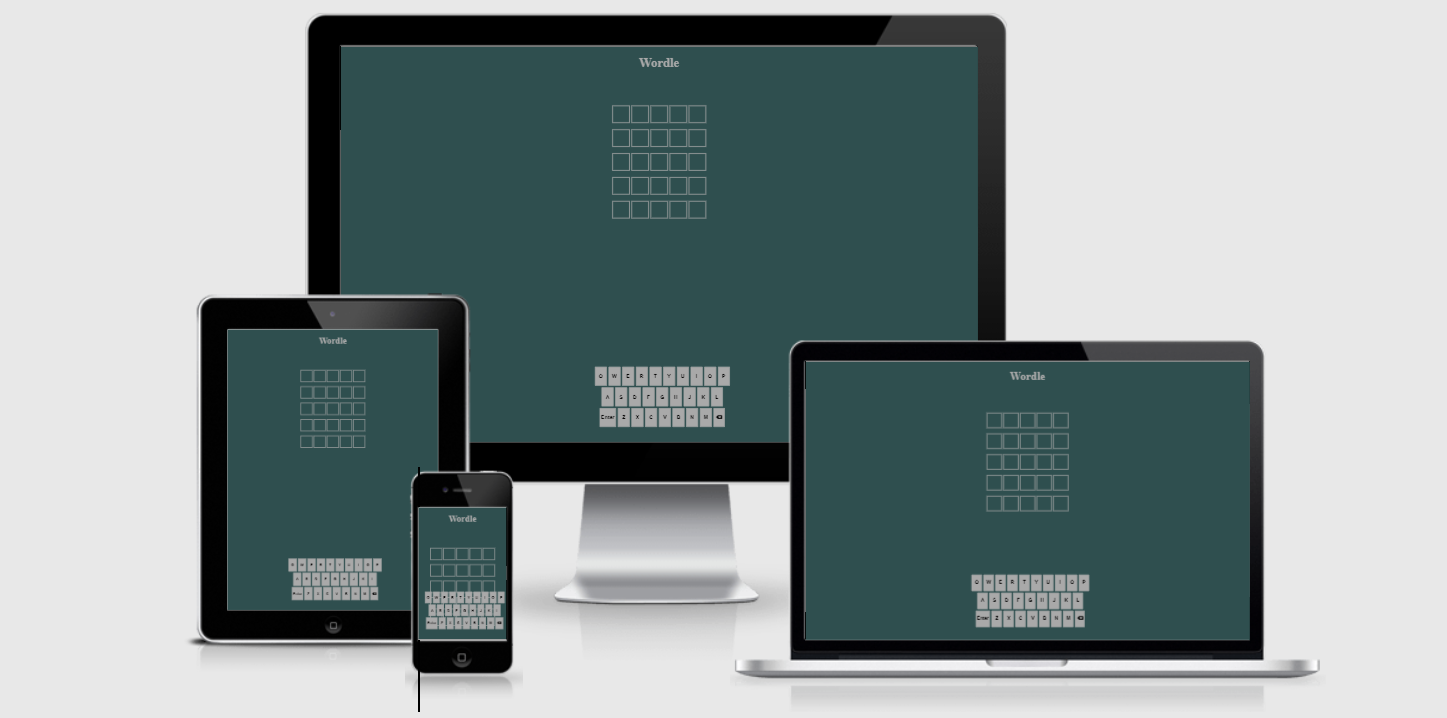
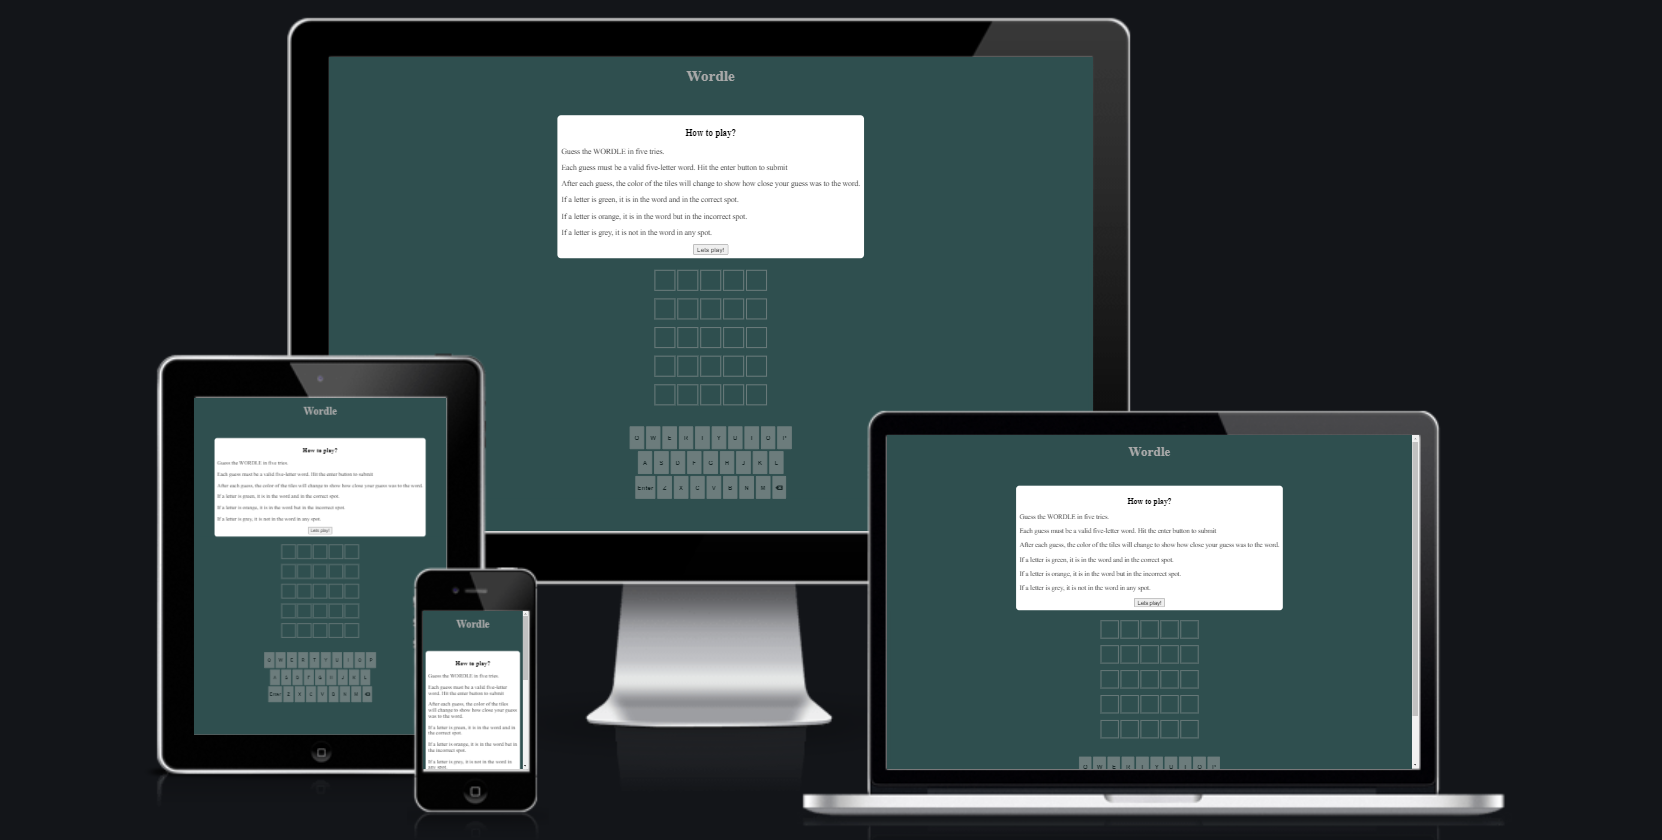
Added more to readme. Solved issue where guess would always be wrong if one the 5th try

diff --git a/scripts/script.js b/scripts/script.js
@@ -22,6 +22,8 @@ function selectWord(validWords) {
 
 
 let word = selectWord(validWords); //The word to guess
+
+console.log(word)
 //Add event listener to the "lets play" button 
 
 function letsPlay (){
@@ -29,12 +31,12 @@ function letsPlay (){
 	removeBlur('main-game');
 	hideInstructionWrapper();
 }
-
+//hides the intruction wrapper
 function hideInstructionWrapper (){
 	let wrapper = document.getElementById('instruction-wrapper');
 	wrapper.classList.add('hide-popup');
 }
-
+//takes element id as paramenter and removes the class blur
 function removeBlur(ElementId){
 	document.getElementById(ElementId).classList.remove("blur");
 }
@@ -101,7 +103,7 @@ function invalidWord() {
 function checkAnswer() {
 	let allWords = validWords.concat(fiveLetterWordList);
 	let lowerCaseWord = guessedWord.toLowerCase();
-	if (guesses <= 5) {
+	if (guesses < 5) {
 		if (allWords.includes(lowerCaseWord)) {
 			if (guessedWord === word) {
 				correctWord();
@@ -114,8 +116,17 @@ function checkAnswer() {
 			invalidWord();
 		}
 	} else if (guesses >= 5) {
-        changeColor('incorrect');
-		resultPopUp('incorrect');
+		if (allWords.includes(lowerCaseWord)) {
+			if (guessedWord === word) {
+				correctWord();
+				
+			} else if (guessedWord != word) {
+				incorrectWord();
+				resultPopUp('incorrect')
+			}
+		} else {
+			invalidWord();
+		}
 	}
 }
 

diff --git a/README.md b/README.md
@@ -1,6 +1,6 @@
 # Project-Milestone-2-Wordle
 Project Milestone 2 -  A browser based word guessing game
-
+![Am I Responsive screenshot](/docs/wordleAmIResponsive.png)
 This game is a browser based word game. The concept comes from the game named "Wordle", now owned by the New York Times. I Created this game in native HTML5, CSS3 and Javascript. The aim of the game is to guess the five letter word, in five guesses. After each guess the user is informed, by a colour change, whether the letters they entered are contained in the word, and whether they are in the correct index. 
 
 The goal of this project was to display my skills in HTML, CSS and mainly Javascript by creating a complex game that is both visually appealing, fun to play and responsive across all browsers and display sizes. 
@@ -16,7 +16,8 @@ The goal of this project was to display my skills in HTML, CSS and mainly Javasc
   The user journey through the site is the same for all visitors. The landing page and main game is all on the same page. At the landing page, a popup displaying the games intructions teaches the user the requirements for winning and how to do so. Once they have begun playing the game, they are given visual feedback in the form of the colour changes to indicate whether they are progressing towards the correct word or not. In addition, the main game page is a simple yet effective screen, with little in the form of distracting elements. The title is the only non funcitonal element on the screen. 
   
  ## Wireframes
- These wireframes gave me a rough idea of what I wanted the UI to look like before I began development. This allowed me to stay focused on the game functionality, rather than tweaking the UI. 
+ These wireframes gave me a rough idea of what I wanted the UI to look like before I began development. This allowed me to stay focused on the game functionality, rather than tweaking the UI.
+
  # Technologies and Tools
  - HTML5
  - CSS3
@@ -35,15 +36,19 @@ The goal of this project was to display my skills in HTML, CSS and mainly Javasc
  # Features
  ## The instuctions page
  The instructions page is the first thing any user sees when they access the website. Simple and brief instructions are shown to the user, though in keeping with the theme for this site, they are minimalist in nature. 
+ ![Wordle Instructions Screenshot](docs/WordleInstructions.png)
  ## The game page
  This is the main page of the game. This holds all the HTML structure required for the user's and subsequent javascript functions to interact with. It is simple in desigh, comprising of 1 heading and 2 main game areas. The Guess Display area and the onscreen keyboard. Upon winning or losing, a popup appears, locking out the rest of the game, asking the user to play again. 
+ ![Wordle Main page](docs/WordleMainGame.png)
  ### Guess Area
  If a letter is in the correct place in the word, it will turn green. If it is in the word, but not in correct place, the letter will turn orange. If it is not in the word at all, it will remain become black. 
+ ![Wordle Guess area](docs/WordleGuessArea.png)
  ### The onscreen keyboard
- The decision to include an onscreen keyboard was made so that we can display whether a letter has already been used on the keyboard as well, which provides another visual indicator of the user's progress
- ## The winning page
- This pop up is created as empty HTML Elements and is hidden by default on page load. Then, the text is changed based on whether the user has won or lost
- ## The losng page
+ The decision to include an onscreen keyboard was made so that we can display whether a letter has already been used on the keyboard as well, which provides another visual indicator of the user's progress.
+ ![Wordle Keyboard Area](docs/WordleKeyboard.png)
+ ## The end game
+ This pop up is created as empty HTML Elements and is hidden by default on page load. Then, the text is changed based on whether the user has won or lost.
+ ![Wordle End Game Popup](docs/wordleendgame.png)
  ## Invalid word
  The decision was made to use a browser alert to infrom the user if they enter an invalid word, as it requires the user's interaction before the game can continue, which can help avoid confusion around wether the word is valid. 
 # Testing
